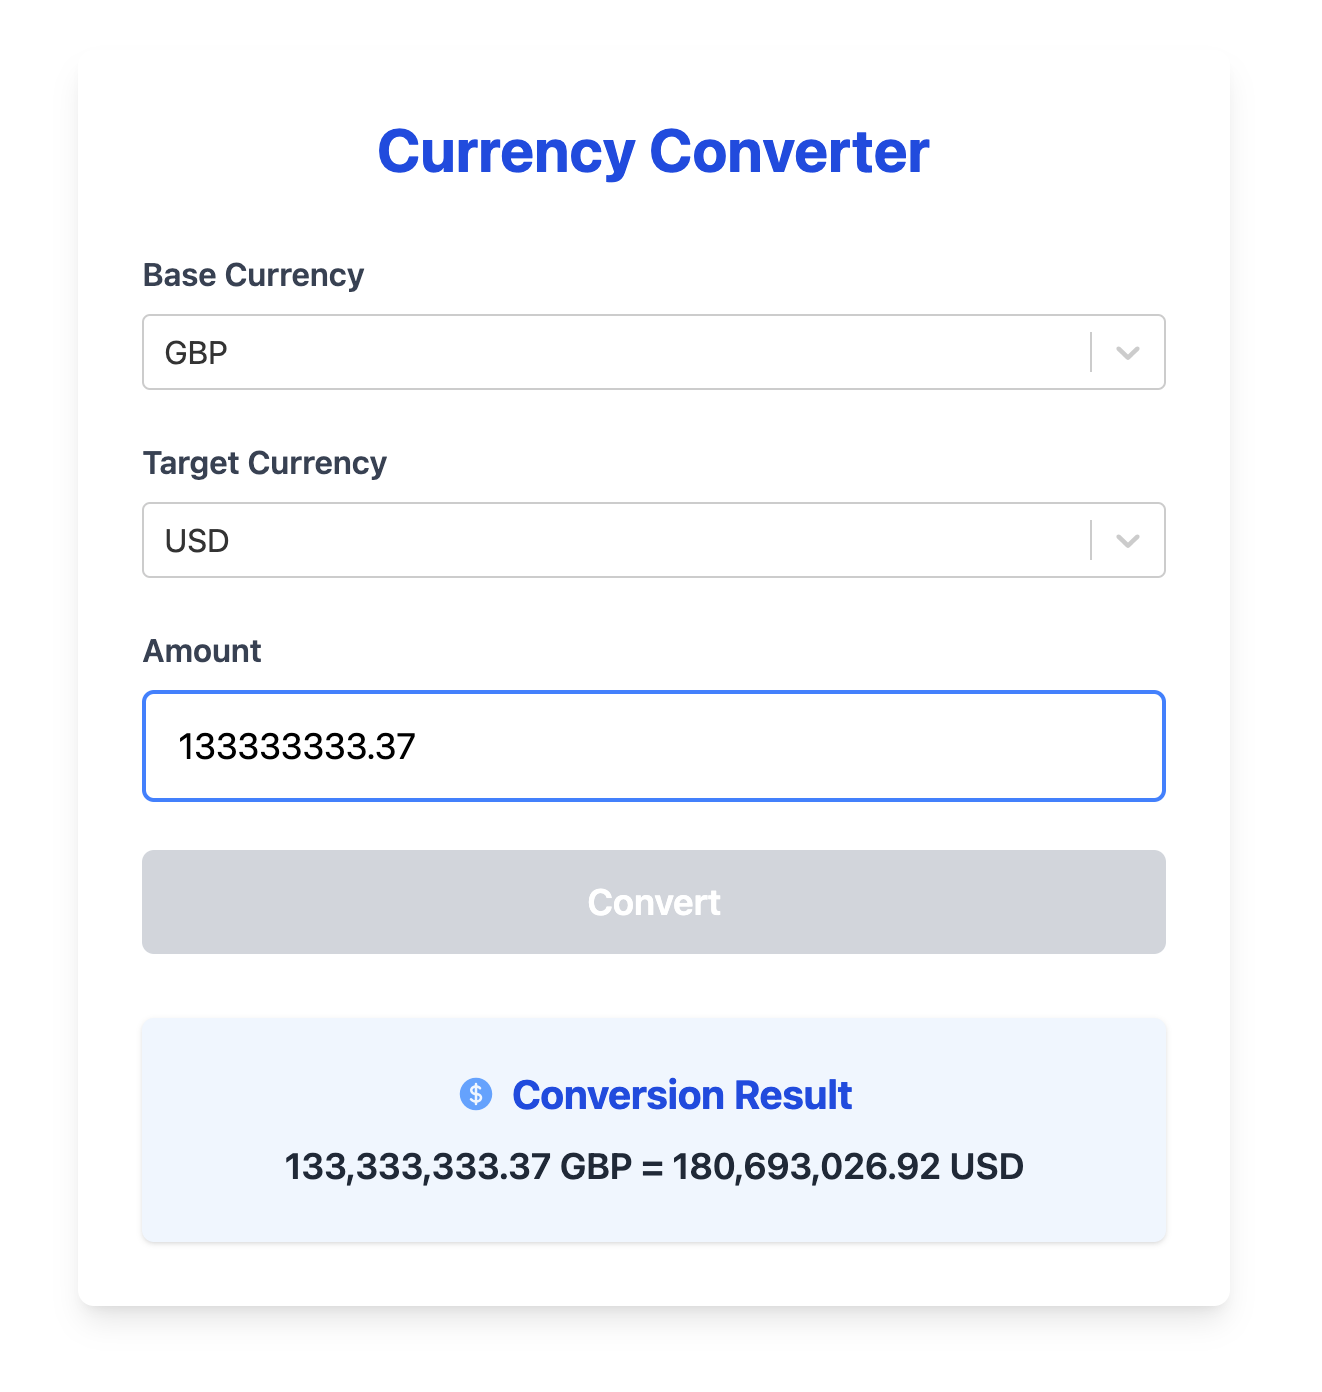
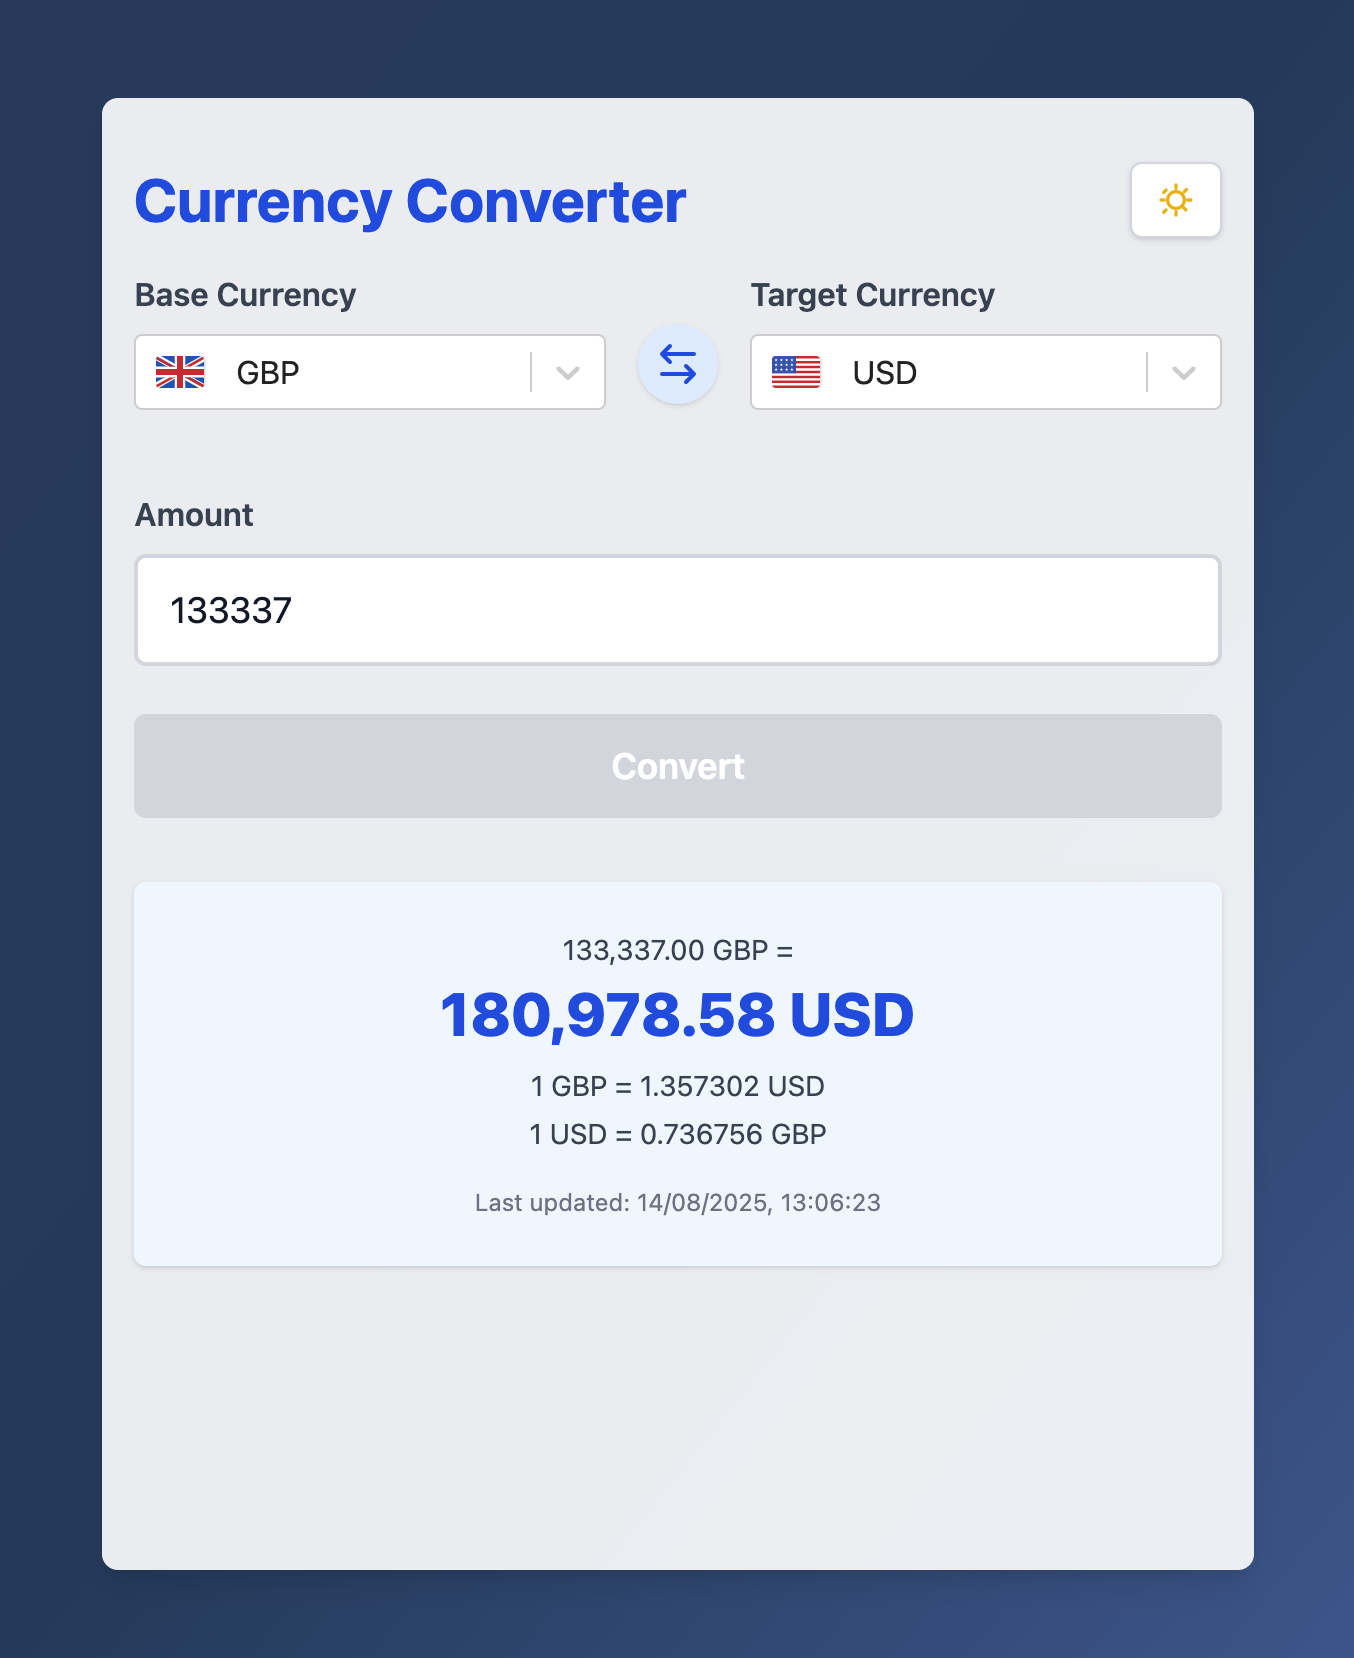
Update readme + screenshot

diff --git a/README.md b/README.md
@@ -6,12 +6,12 @@ Instantly convert currencies using up-to-date exchange rates from [floatrates](h
 ![Screenshot](assets/screenshot.png)
 
 ## Features
-- Select base and target currencies
+- Select base and target currencies (with flags from country-flag-icons 🇬🇧)
 - Enter an amount (max 2 decimals)
 - See conversion result, rounded to 2 decimals
 - Cache prevents repeated API calls within a short time
 - Responsive, accessible UI (Tailwind CSS v4)
-- Robust validation and error handling
+- Validation and error handling
 - Redux for state management
 - Unit and integration tests (Vitest + React Testing Library)
 
@@ -37,8 +37,3 @@ Run all tests:
 npm test
 ```
 Unit tests are in `src/__tests__`. Integration test is in `src/App.test.tsx`.
-
-## Design Decisions
-- Tailwind v4 for modern, responsive UI
-- Accessibility: aria labels, live regions, keyboard navigation
-- Redux for scalable state management
